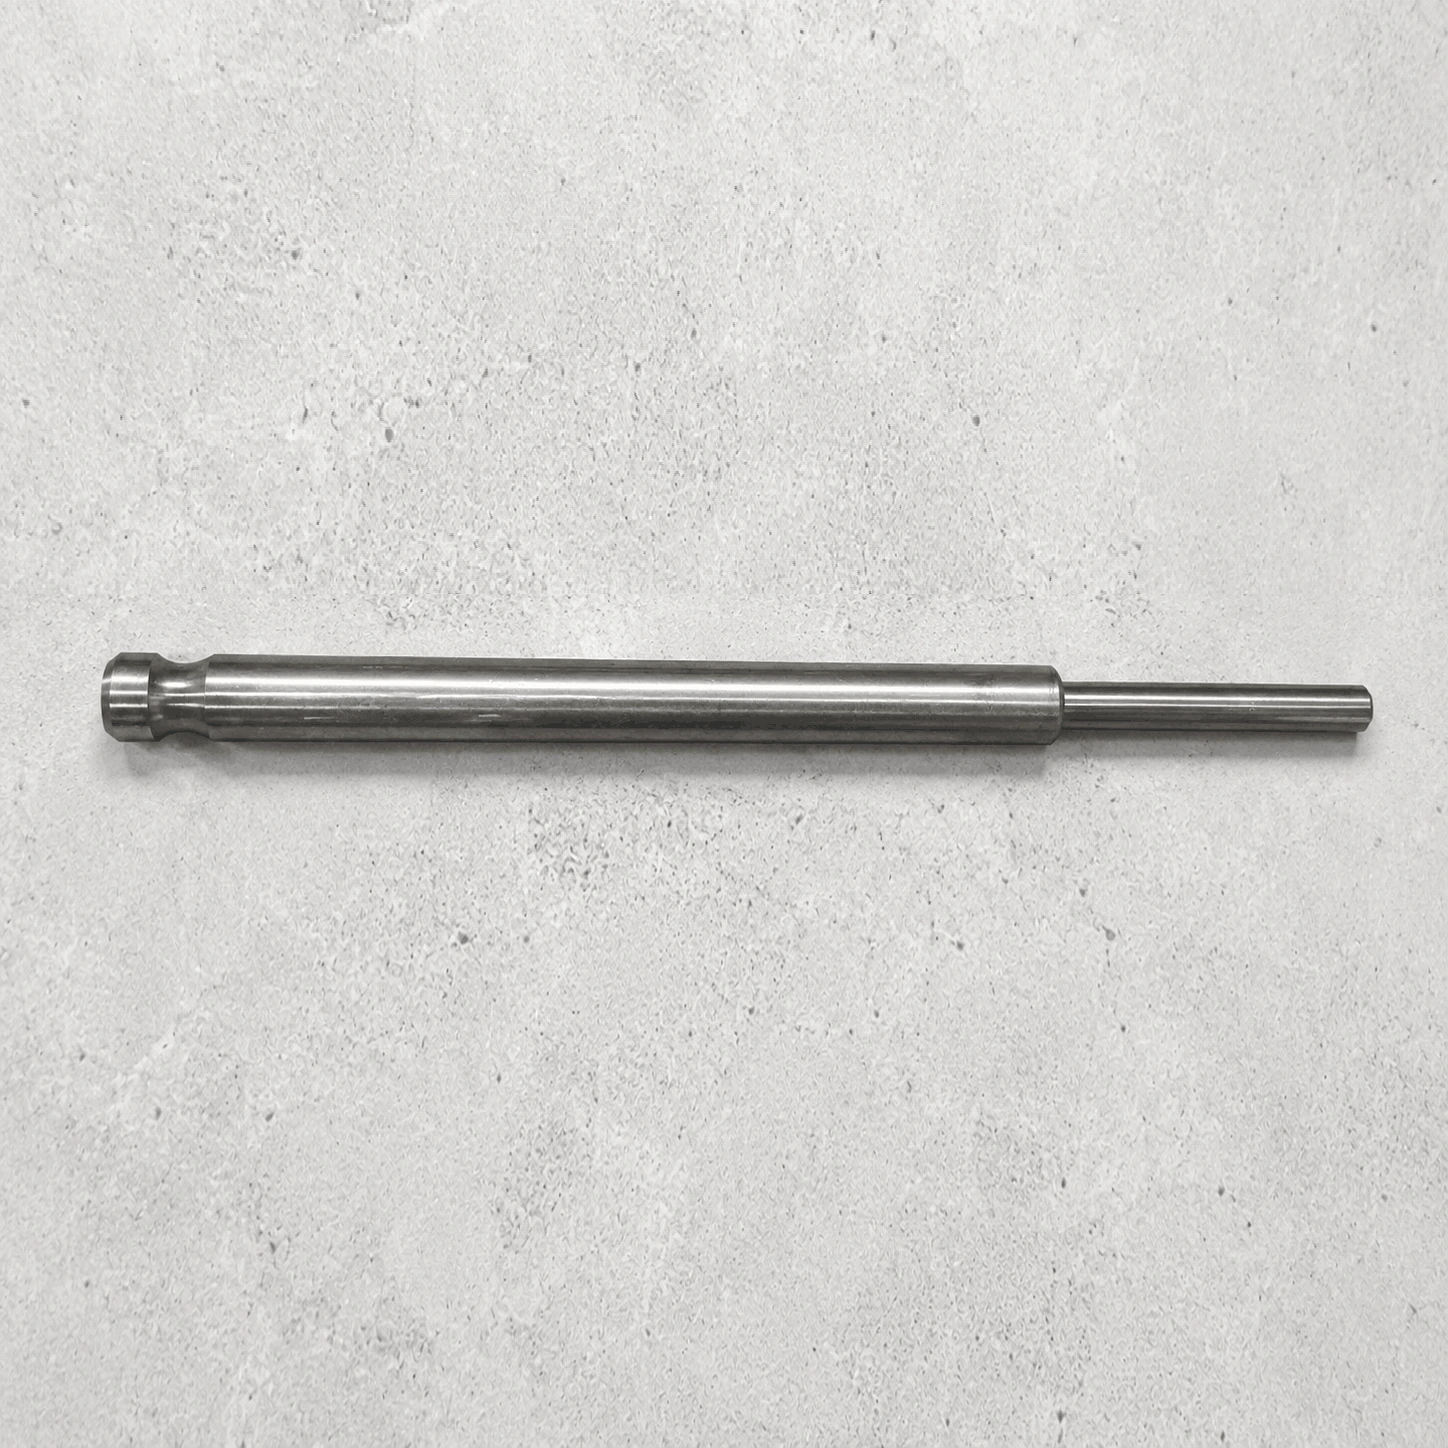
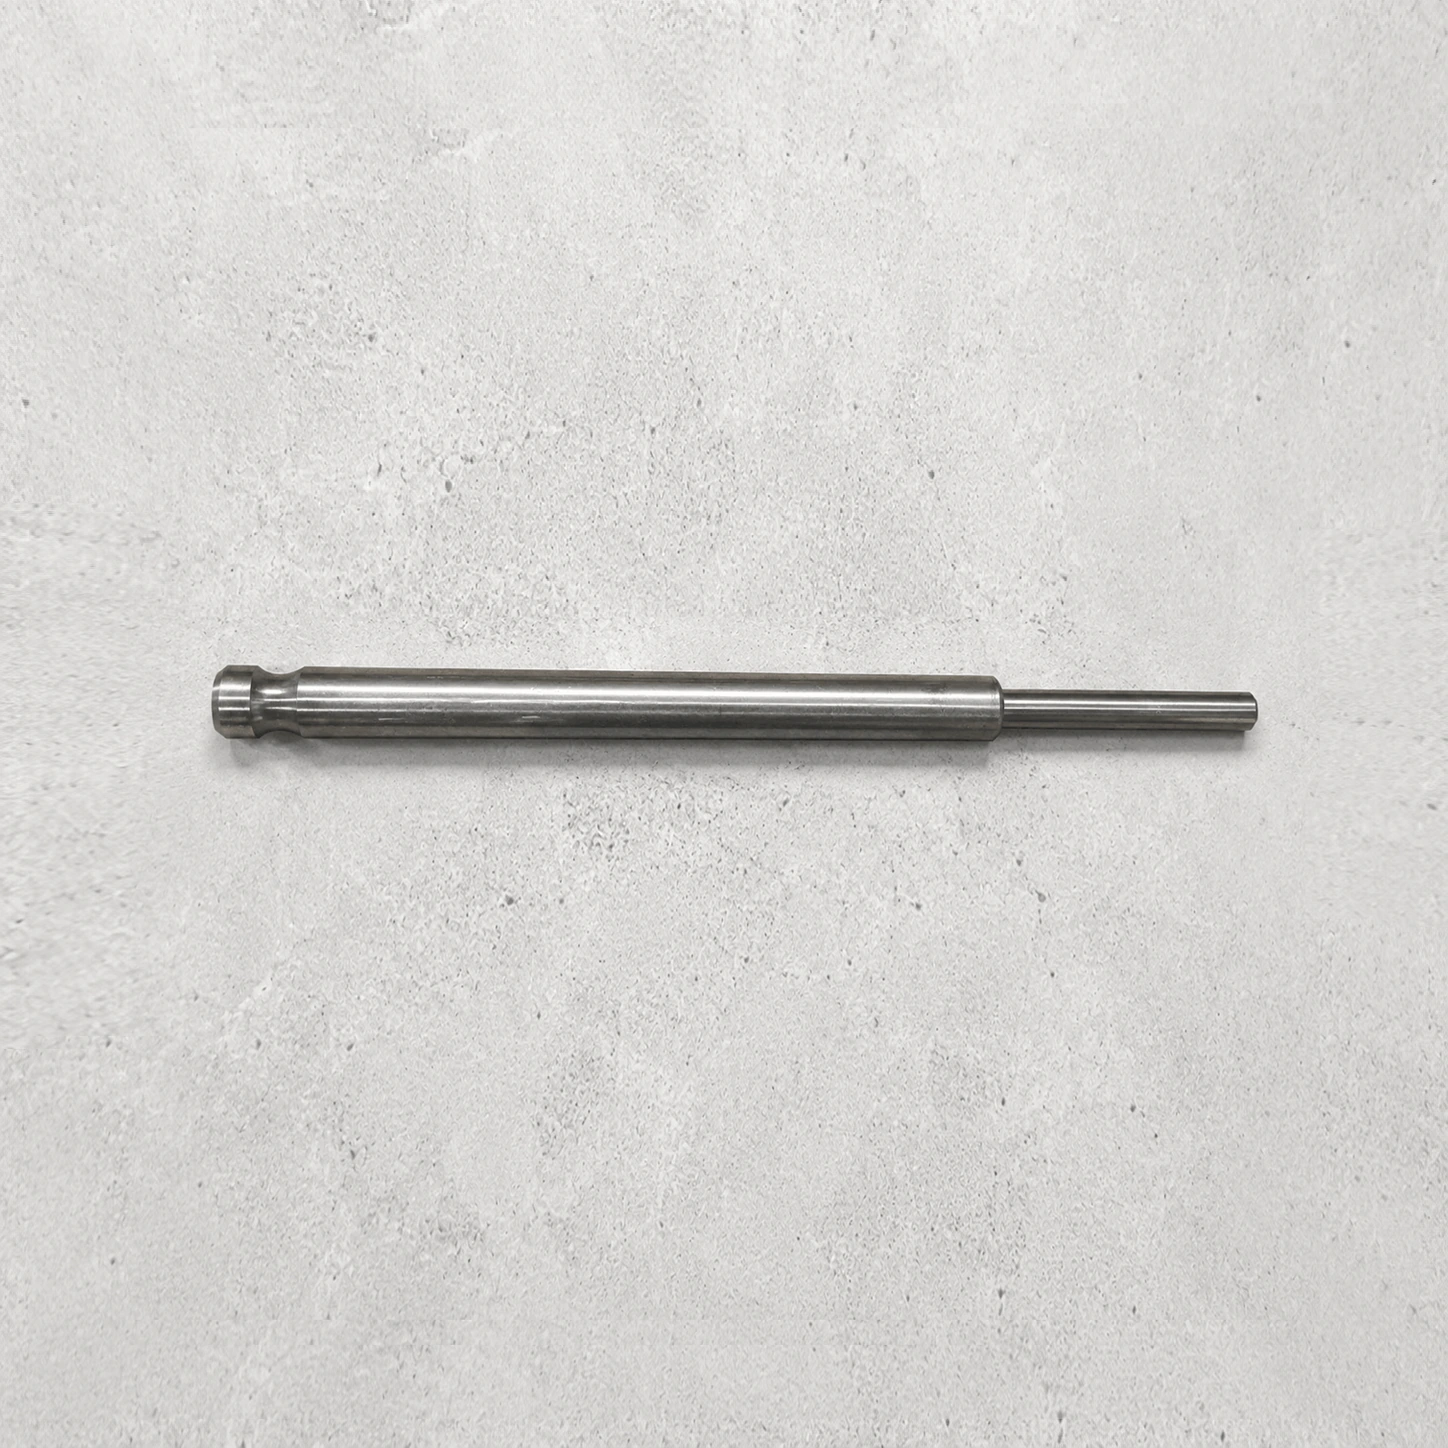
The new stainless spigot photo (your filename confirmed it belongs to SS-02 Wall Station Spigot) now shows on card 4, encoded at full 1448px resolution and high quality so the machined detail stays crisp.
I have updated the version tag on the image link to ensure your browser loads the new file instead of a cached old one. I have also checked that the SS-02 card renders the new photo correctly at desktop size, with no changes to any other part of the catalogue.

Please open the preview and scroll to the Wall Station Spigot card to see the update. Could you kindly test it and let me know if everything appears as expected or if you encounter any issues?

Next Action Items:
- **More Photo Swaps**: Send corrected photos for any other cards the same way and I'll swap them in
- **Legal Placeholders**: Replace the timeframe and warranty placeholders in the Privacy and Terms pages with final wording
- **Cloudflare Pages Launch**: Turn this static build into your live site on Cloudflare Pages when you're happy with it
- **GitHub Save**: Push the finished photo set to your Lzr-Tag repo via Save to GitHub

Emergent-Commit-Key: 3fd60f291e6aee564229849a8305d05307d672832e5cd630b8d77b0fed48b811

diff --git a/frontend/public/index.html b/frontend/public/index.html
@@ -150,7 +150,7 @@
                             <span class="product-num">04</span>
                         </div>
                         <div class="product-photo">
-                            <img src="./assets/products/ss-02.webp?v=2" alt="Stainless steel wall station spigot" loading="lazy" />
+                            <img src="./assets/products/ss-02.webp?v=3" alt="Stainless steel wall station spigot" loading="lazy" />
                         </div>
                         <div class="product-info">
                             <p class="product-cat">Wall Station Components</p>

diff --git a/memory/PRD.md b/memory/PRD.md
@@ -64,3 +64,4 @@ Build a one-page industrial B2B landing page for LZR TAG, a mining consumables b
 - 2026-07 (round 31): Real product photography added (9 user-supplied images, SKU-mapped by the user's filenames). Downloaded from customer-assets, resized to max 1200px, converted to webp q82 (75-266KB each) into assets/products/: lzr-001 (red tag), lzr-002 (black Mini tag), ss-01 (sleeve cylinder), ss-02 (spigot rod), ss-03 (survey station triangle), nu-01 (eye-bolt), nu-02 (Knead It), nu-03 (SDS bits), nu-04 (yellow cattle tag — replaces its "Photo coming soon" placeholder; NU placeholders for nu-01/02/03 also replaced with real imgs). Old lzr/ss .png files left on disk but no longer referenced. Still placeholder: SS-05 Pelican Cases and CUSTOM (user sending more photos later); SS-04 keeps its existing image. All 10 card images verified loading (naturalWidth > 0) and rendering at 1440x800.
 - 2026-07 (round 32): Blurry-photo fix — user flagged LZR-001, LZR-002, SS-01, SS-02 (the four high-frequency subjects: prismatic reflective tape, brushed steel). Root cause: round 31's webp q82 + downscale-to-1200 smoothed the fine texture. Re-encoded those four from the original PNGs at NATIVE resolution (1086-1448px, no downscale), webp quality 93 method 6 (294-476KB each); verified via side-by-side 500px centre crops that the q93 encode is visually indistinguishable from the originals. Added ?v=2 cache-busters to those 4 img srcs so returning browsers pick up the new files. Other 5 product images unchanged (q82 fine for them). Verified rendering sharp at 1440x800 (lzr-001 renders 487x443 from 1354px source).
 - 2026-07 (round 33): Final 4 photos — corrected-sizing LZR-001 (1354px) and LZR-002 (1372px) re-uploads replaced the first versions (cache-busters bumped to ?v=3); SS-05 Custom Pelican Cases (custom-case-600x600.png) and CUSTOM card (custom-600x600.png) placeholders replaced with real imgs. All encoded webp q93 native-res. Catalogue complete: 12/12 products with real photos, zero photo placeholders remain. Verified at 1440x800: both tag cards, SS-05 mid-stack, and CUSTOM pinned with the sentence all render correctly.
+- 2026-07 (round 34): SS-02 Wall Station Spigot photo replaced with user's new upload (filename-confirmed SKU; 1448x1448 native, webp q93, 442KB); cache-buster bumped to ?v=3. Served HTML needed a frontend restart again (recurring stale-static behaviour). Verified: card serves v=3 and the image loads.
